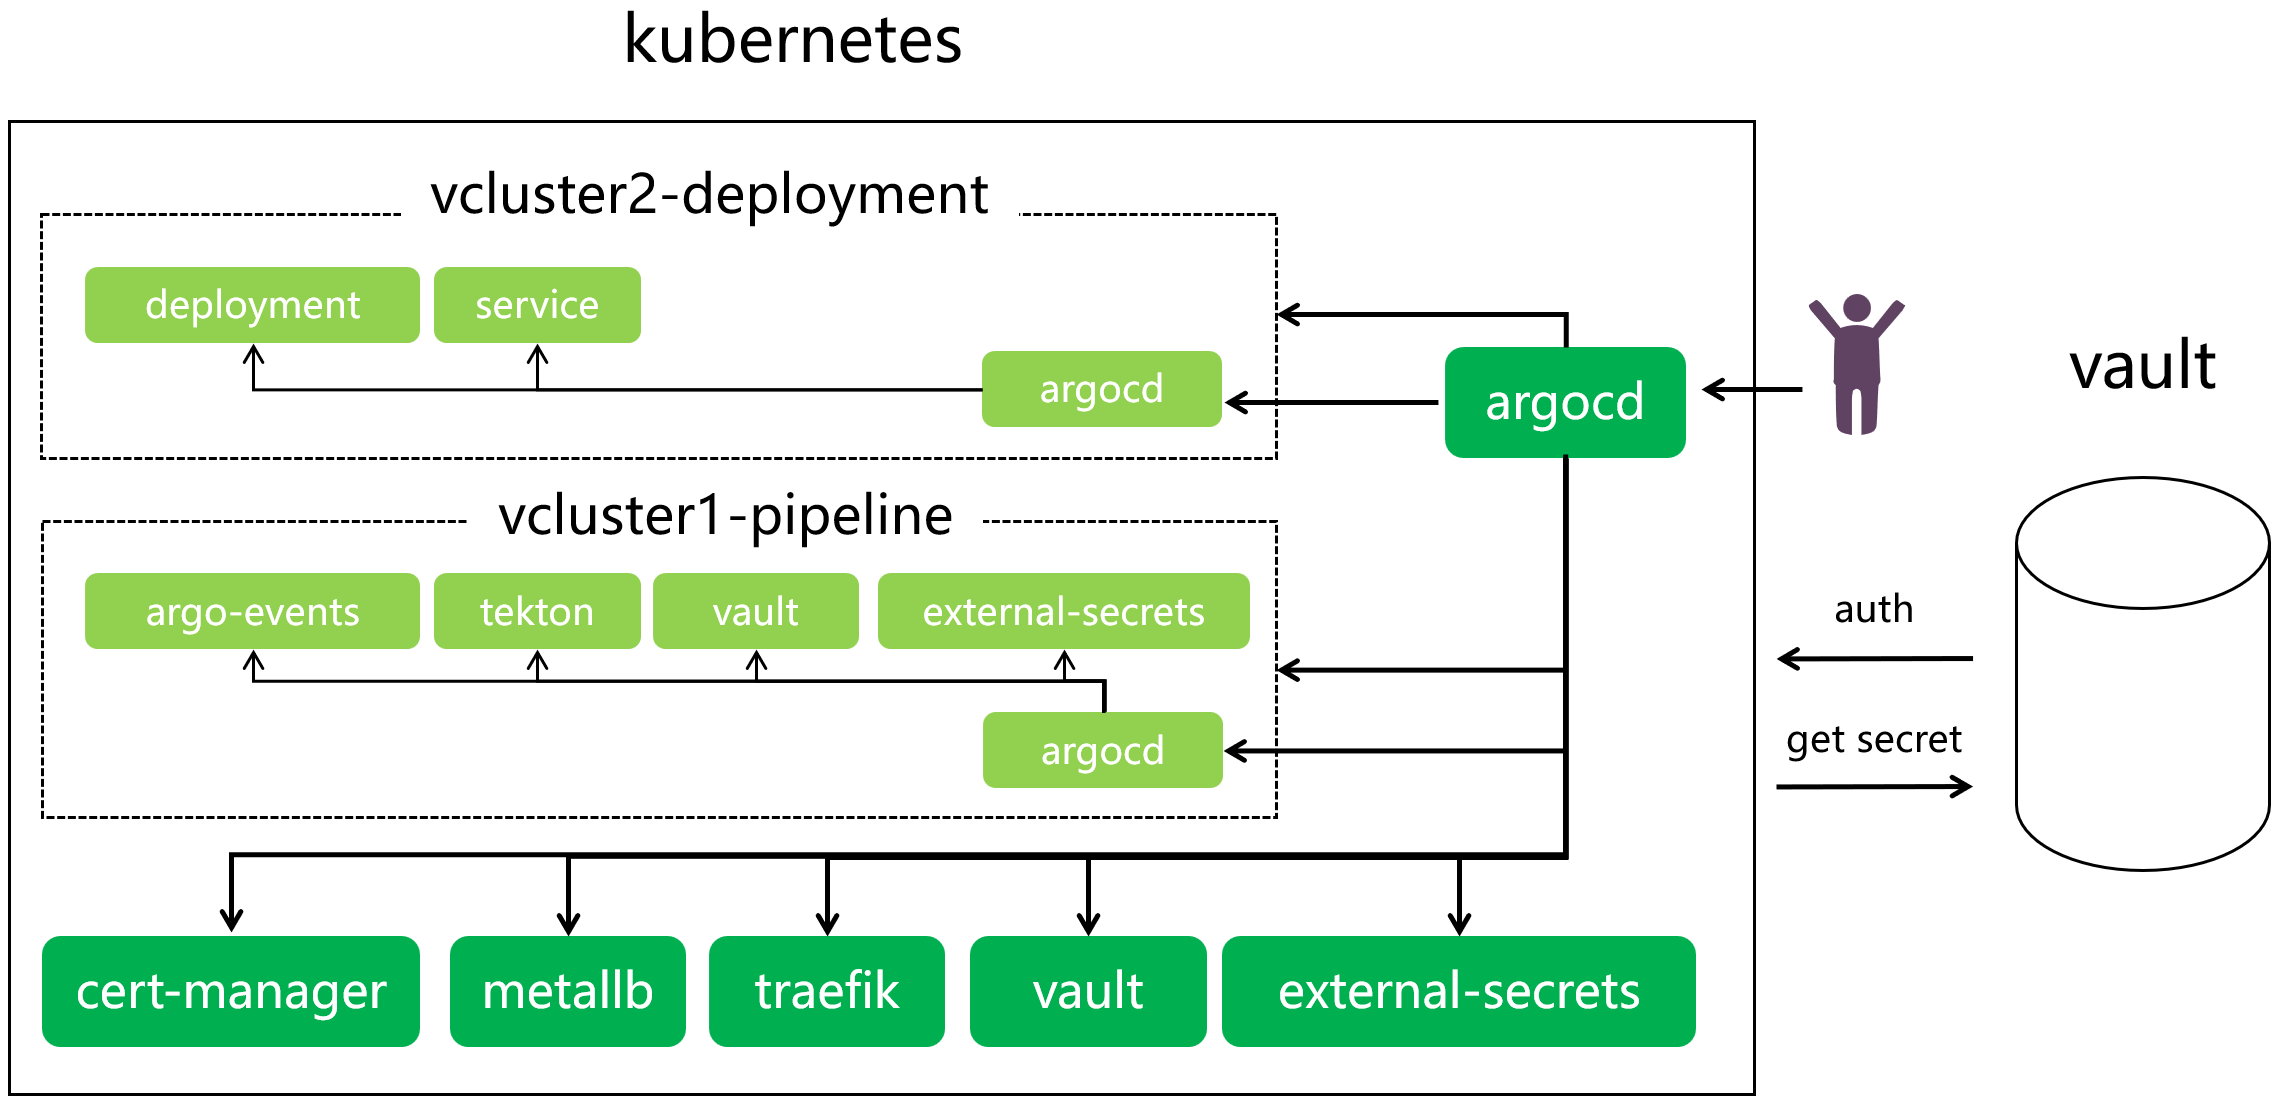
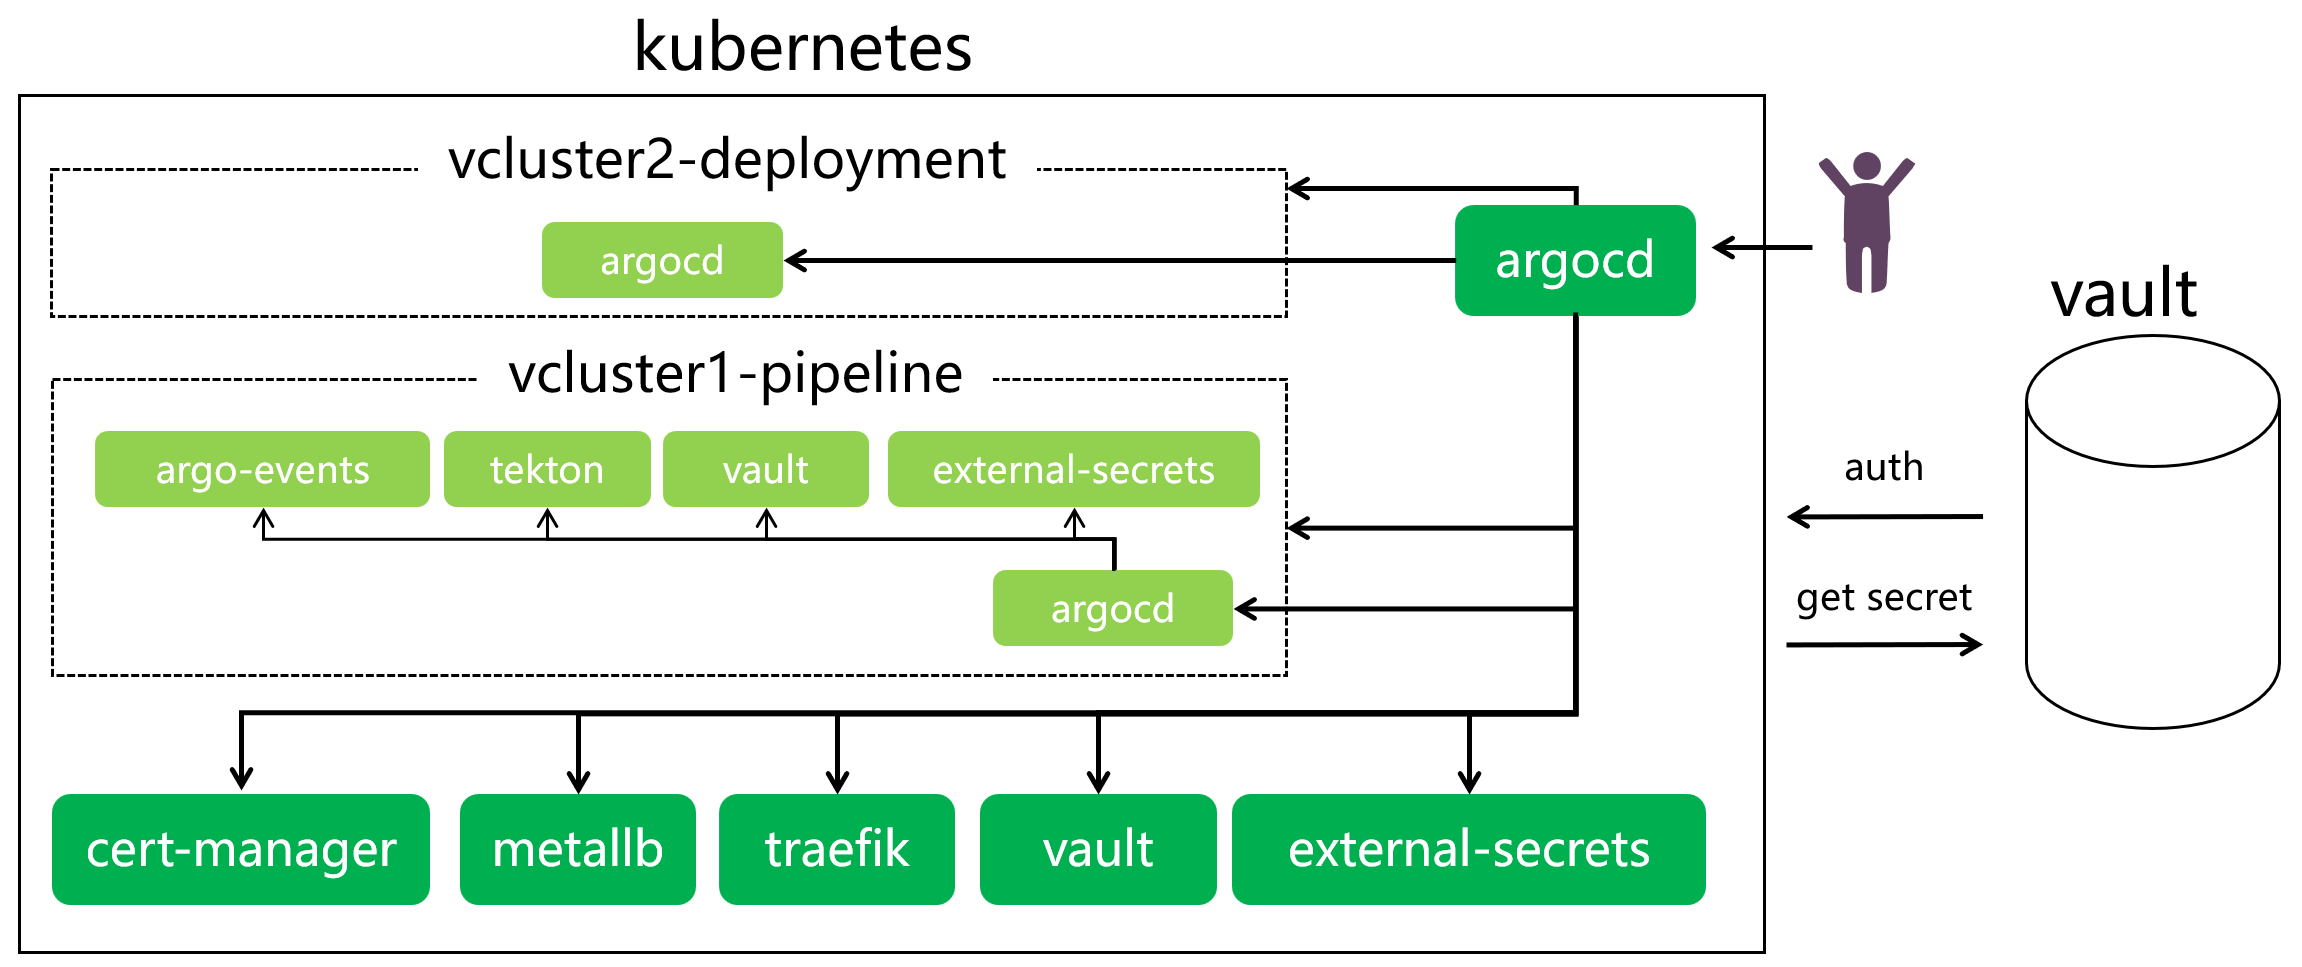
Updated overview chapter

diff --git a/src/guide/CICD-quickStart-backup.md b/src/guide/CICD-quickStart-backup.md
@@ -5,7 +5,7 @@ outline: deep
 
 ## 概览
 
-近几年随着以 Kubernetes 为核心的云原生技术和工具的发展，开源社区涌现出大量可以实现 CI/CD 的 Kubernetes 原生工具，但我们在引入这些工具的过程中往往会发现，单一工具难以完成所有过程，通常需要多种工具的协同工作才能支撑全流程的 CI/CD 场景，那么如何将多个异构开源工具集成起来，并打通这些工具的认证、权限、数据、流程等壁垒，就成为我们在引入这些工具过程中最大的挑战。本文会用一个 demo 向大家展示，如何通过集成多个 Kubernetes 原生的开源工具，构建一个可以通过代码提交触发的 CI/CD 流水线，完成拉取代码、编译、构建镜像、推送镜像、部署等几个关键任务，以最简化的形式实现软件项目的持续交付。
+近几年随着以 Kubernetes 为核心的云原生技术和工具的发展，开源社区涌现出大量可以实现 CI/CD 的 Kubernetes 原生工具，但我们在引入这些工具的过程中往往会发现，单一工具难以完成所有过程，通常需要多种工具的协同工作才能支撑全流程的 CI/CD 场景，那么如何将多个异构开源工具集成起来，并打通这些工具的认证、权限、数据、流程等壁垒，就成为我们在引入这些工具过程中最大的挑战。本文会用一个 demo 向大家展示，如何通过集成多个 Kubernetes 原生的开源工具，构建一个可以通过代码提交触发的 CI/CD 流水线，完成拉取代码、编译、构建镜像、推送镜像等几个关键任务，以最简化的形式实现软件项目的持续交付。
 
 ![directive syntax graph](./images/CI-1.jpg)
 
@@ -13,15 +13,14 @@ outline: deep
 
 本 demo 是采用了 GitOps 的管理方法，GitOps 提倡将项目所有的配置声明都存储在版本控制系统中。在本 demo 中，所有运行在 Kubernetes 中工具的安装脚本和参数配置是存储在 GitHub 中，而工具运行过程所需的密钥数据则是通过 Vault 进行存储和管理。Vault 除了能提供密钥的版本管理能力外，还能提供多样的认证方法、灵活的权限控制和密钥提取方式，同时可以和 Kubernetes 无缝集成，相较于 GitHub 更适合与 Kubernetes 及其原生工具协同工作。
 
-本 demo 展示了流水线和持续部署的运行环境。为了用尽量少的资源获得更好的隔离性，我们采用了在物理集群中划分虚拟集群的方式来实现不同环境之间的隔离。上图中的 vcluster 就是一种虚拟集群的实现方式，demo 中所有跟流水线运行相关的核心工具都在流水线运行集群中（vcluster1-pipeline） 、跟部署运行相关的工具则在部署运行集群中（vcluster2-deployment） 。
+本 demo 只展示了流水线的执行环境，但后面我们会为这个 demo 继续扩展持续部署的能力。为了用尽量少的资源获得更好的隔离性，我们采用了在物理集群中划分虚拟集群的方式来实现不同环境之间的隔离。上图中的 vcluster 就是一种虚拟集群的实现方式，demo 中所有跟流水线运行相关的核心工具都是运行在 vcluster 中。
 
-除了密钥数据外，其他所有运行在 Kubernetes 中的工具均是通过 ArgoCD 进行部署和管理的。ArgoCD 会监听 GitHub 中的配置清单，向物理集群中部署CertManager、Metallb、Traefik、VaultAgent、ExternalSecrets、以及两个 vcluster，其中，CertManager 会为 Kubernetes 中各个工具所暴露的 HTTPS 服务自动签发证书；Metallb 是为 Kubernetes service 提供 LoadBalancer；Traefik 同时为物理集群和虚拟集群提供 Ingress 服务；VaultAgent 和 ExternalSecrets 则提供了从 Vault 中加载密钥到 Kubernetes 集群的不同方式。
+除了密钥数据外，其他所有运行在 Kubernetes 中的工具均是通过 ArgoCD 进行部署和管理的。ArgoCD 会监听 GitHub 中的配置清单，向物理集群中部署CertManager、Metallb、Traefik、VaultAgent、ExternalSecrets、以及一个 vcluster，其中，CertManager 会为 Kubernetes 中各个工具所暴露的 HTTPS 服务自动签发证书；Metallb 是为 Kubernetes service 提供 LoadBalancer；Traefik 同时为物理集群和虚拟机群提供 Ingress 服务；VaultAgent 和 ExternalSecrets 则提供了不同的从 Vault 中加载密钥到 Kubernetes 集群的方式。
 
-当 ArgoCD 在物理集群部署好两个 vcluster 实例之后，会继续在这两个 vcluster 中分别部署一个 ArgoCD 实例，运行在 vcluster 中的其他工具是由这个内部的 ArgoCD 进行部署和管理的。在流水线运行集群（vcluster1-pipeline）中，包括工具：ArgoEvents、Tekton、以及 VaultAgent 和 ExternalSecrets，其中 ArgoEvents 负责监听 GitHub 上的 Webhook 回调并触发流水线，Tekton 则负责流水线的解析和执行。在部署运行集群中（vcluster2-deployment），只需要部署 ArgoCD ，无需其他工具。
+当 ArgoCD 在物理集群中部署好一个 vcluster 实例后，会继续在这个 vcluster 中部署一个 ArgoCD 实例，运行在 vcluster 中的其他工具是由这个内部的 ArgoCD 进行部署和管理的。在 vcluster 中运行的工具包括：ArgoEvents、Tekton、以及 VaultAgent 和 ExternalSecrets，其中 ArgoEvents 负责监听 GitHub 上的 Webhook 回调并触发流水线，Tekton 则负责流水线的解析和执行。
 
-我们会将需要被集成的项目代码存放到 GitHub 中，同时将流水线清单、编译脚本、Dockerfile等文件放入同一个代码库。当我们向这个代码库推送变更（git push）时，GitHub 会发送一个回调给 ArgoEvents，ArgoEvents 根据回调内容在 Kubernetes 集群中创建相应的流水线资源，Tekton 再将流水线转为多个 Kubernetes POD去执行。
+我们会将需要被集成的项目代码存放到 GitHub 中，同时将流水线清单、编译脚本、Dockerfile等文件放入同一个代码库。当我们向这个代码库推送变更（git push）时，GitHub 会发送一个回调给 ArgoEvents，ArgoEvents 根据回调内容在 Kubernetes 集群中创建相应的流水线资源，Tekton 再将流水线转为多个 Kubernetes POD去执行，我们可以通过 Kubectl CLI 或 Tekton 的 dashboard  跟踪流水线的执行过程。
 
-流水线中编排的任务包括：clone 代码、编译构建、构建并推送镜像、更新部署资源的镜像地址、应用部署（接收部署通知）。当流水线更新镜像地址之后，部署运行环境中 ArgoCD app 的部署状态一旦变更，通过协同 ArgoCD Notifications 和 ArgoEvents，ArgoCD Notifications 回调流水线运行环境中的 Webhook 并向流水线发送消息，流水线中的部署任务捕获并解析消息，进一步判断部署状态是挂起、失败或者成功。可以通过 Kubectl CLI 或 Tekton dashboard  跟踪流水线中所有任务的执行过程。
 
 ## 准备
 以下工具有多种安装方式，下文只是其中一种。
